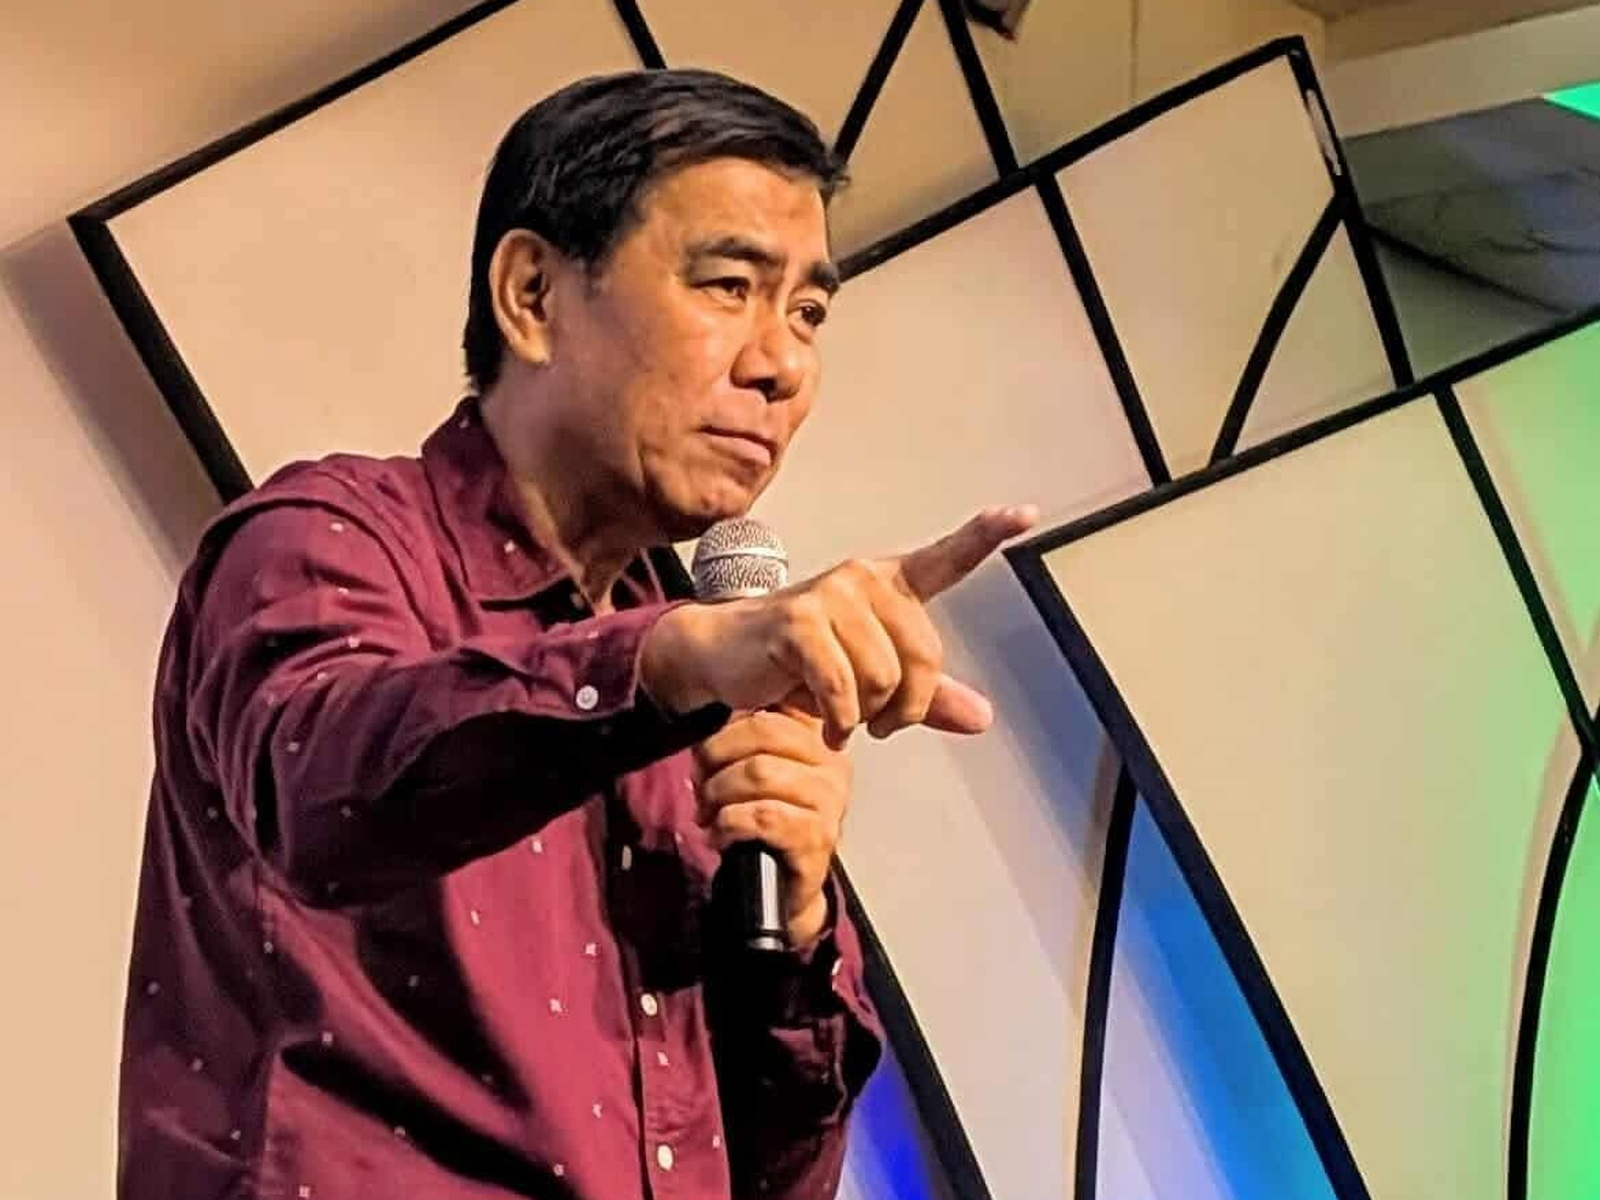
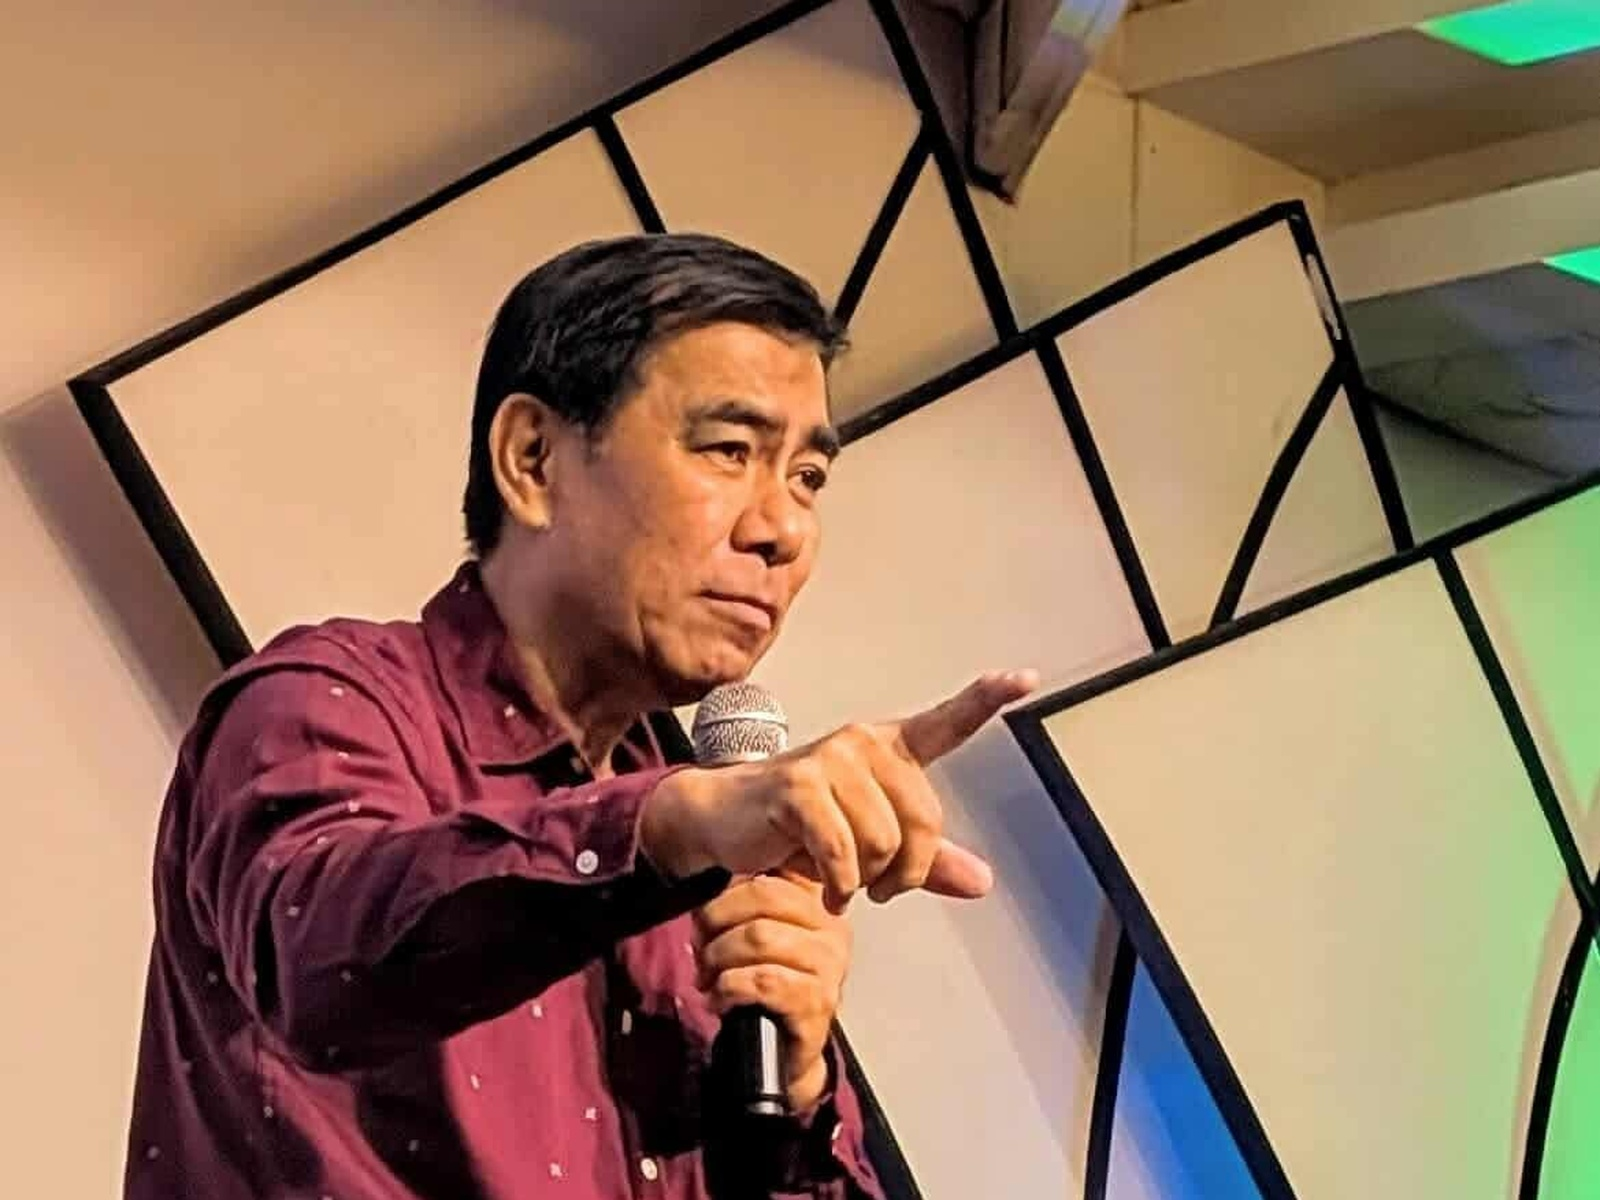
feat: center ptr jun, fix framing for ptr tanny and charlie, and update brews program photo

diff --git a/src/pages/About.jsx b/src/pages/About.jsx
@@ -22,7 +22,7 @@ const pastors = [
       "A businessman by profession, Ptr. Jun serves as the Lead Pastor and Chief Operating Officer (COO) of Jesus Our Hope International Assemblies, Inc. (JOHIA) Cubao. He is currently pursuing a Master of Divinity in Pastoral Studies at Asian Theological Seminary.",
       "An alumnus of the University of Santo Tomas, where he earned a degree in Music Education, he brings a multidisciplinary approach to church leadership. His approach influences the day-to-day operations of JOHIA and has contributed to the church's revival after the pandemic. His innovative methods have led to new members and more people coming to Christ through intensive Bible-centered teaching and non-formal, nontraditional activities."
     ], 
-    position: "object-top" 
+    position: "object-center" 
   },
   { 
     name: "Ptr. Jess", 

diff --git a/src/pages/Programs.jsx b/src/pages/Programs.jsx
@@ -82,7 +82,7 @@ export default function Programs() {
           id="programs-johia-brews"
           title="JOHIA Brews"
           description={<p>A hub for connection, fellowship and discipleship. Grab a cup of our fresh brew, meet new friends and enjoy heartfelt conversations in a welcoming, faith filled atmosphere. Every Sunday at the JOHIA Center.</p>}
-          imageSrc="/images/ministries/ministry-brews-food-service.jpg"
+          imageSrc="/images/programs/programs-brews-service.jpg"
           imageAlt="JOHIA Brews Fellowship and Food Service"
           reverse={true}
           texture="light"
